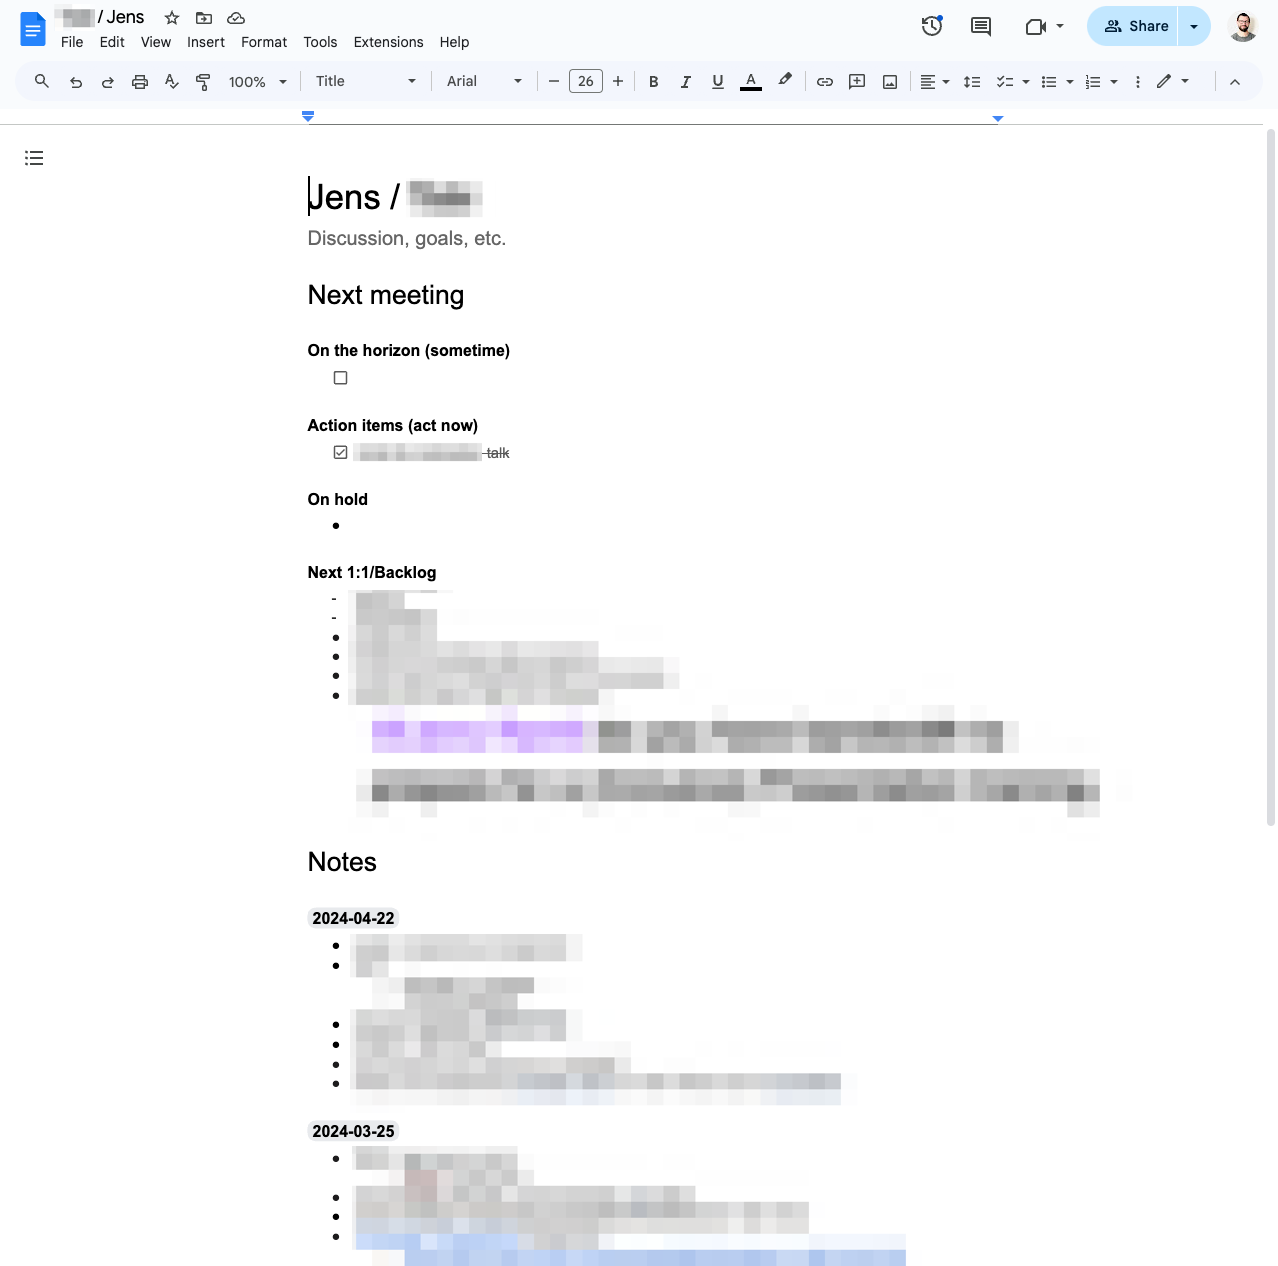
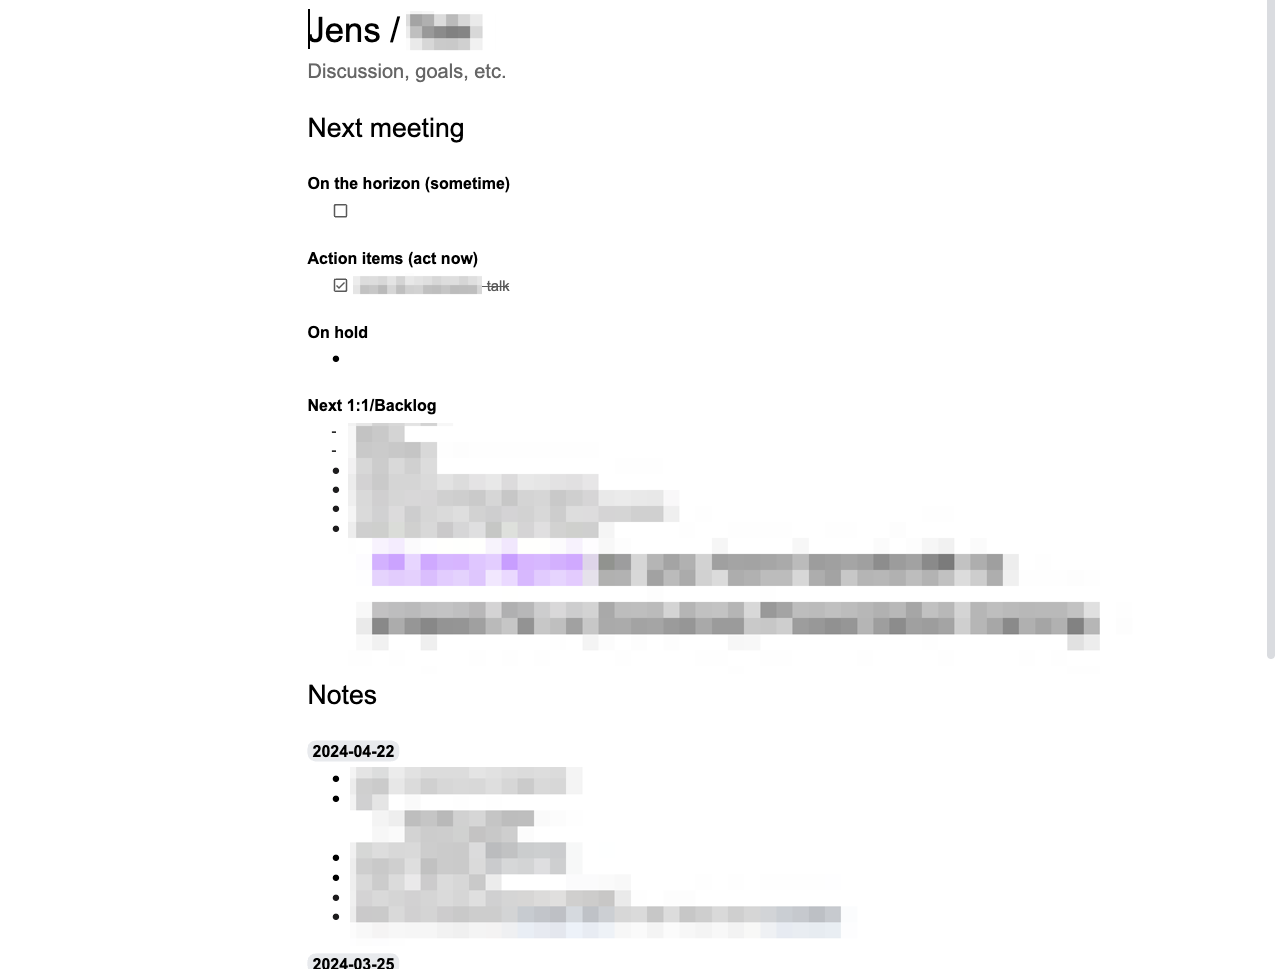
feat: one-on-one template
Crop and move the screenshot.

diff --git a/content/posts/2025-01-16_a-one-on-one-template/index.md b/content/posts/2025-01-16_a-one-on-one-template/index.md
@@ -5,7 +5,6 @@ description = "An agile template for regular 1-on-1 meetings."
 tags = ["leadership", "management", "templates"]
 slug = "one-on-one-template"
 +++
-![A screenshot of the one-on-one template.](screenshot.png)
 
 I have used the same one-on-one template with my last six managers, including other regular check-ins. I am very happy with it! A recent conversation with a friend made me realize I better share the template with the world. If nothing else, I should share it for my own sake - in case I need it for another regular 1-on-1 setting sometime in the future.
 
@@ -20,11 +19,13 @@ I have used the same one-on-one template with my last six managers, including ot
 
 A "one-on-one", also known as "1-on-1", "1:1", or a "check-in", is a private meeting between two individuals. While part of the template would make sense for a non-recurring one-on-one, you get the most value from it in recurring one-on-ones.
 
-Also, one-on-ones are _not_ just between your manager. It can be regular meetings with anyone, such as skip-level meetings where you talk to your grand boss once in a while, or that regular meeting you have with your team's product manager, etc.
+Also, one-on-ones are _not_ just between your manager. It can be regular meetings with anyone, such as skip-level meetings where you talk to your grand boss once in a while, or that regular meeting you have with your team's product manager.
 
 At a very high level, I think of a one-on-one as a place and time to 1) sync on the current landscape and 2) decide how to act. As such, a one-on-one template should help with that.
 
 ## The template
+
+![A screenshot of the one-on-one template.](screenshot.png)
 
 The template document has three sections:
 
